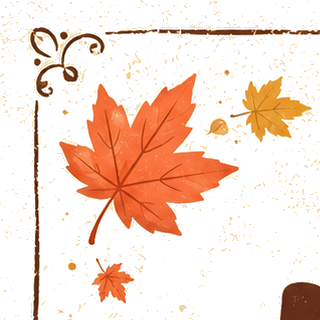
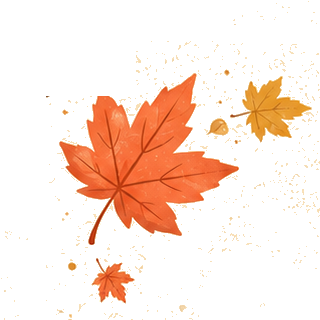
캐릭터 프로필 카드 이미지 디자인 추가 및 책 안의 화면 배경화면과 유사하게 디자인작업

diff --git a/frontend/src/css/book-flip-stage.css b/frontend/src/css/book-flip-stage.css
@@ -15,6 +15,11 @@
   background-repeat: no-repeat;
 }
 
+/* 다크모드일 때는 밤 버전 배경으로 교체 */
+[data-theme='dark'] .home {
+  background-image: url('/background-dark.png');
+}
+
 /* HTMLFlipBook(size="stretch")이 늘어날 기준 너비를 잴 수 있도록,
    책을 감싸는 요소가 항상 실제 너비(100%)를 갖고 있어야 한다.
    이게 없으면 책이 최소 크기로 쪼그라드는 문제가 있었다. */
@@ -32,20 +37,37 @@
 
 /* 페이지 한 장. StPageFlip이 실제 종이처럼 휘어지는 애니메이션과
    그림자를 자체적으로 그려주므로, 여기서는 배경/테두리 등 "종이처럼 보이는"
-   스타일만 신경 쓰면 된다. */
+   스타일만 신경 쓰면 된다.
+   바탕화면 이미지를 그대로 재사용하는 대신, 책 페이지만의 느낌을 CSS로 새로
+   만든다 - ① 책등(가운데 접히는 쪽) 방향으로 은은하게 어두워지는 그림자,
+   ② 페이지 네 귀퉁이가 살짝 어두워지는 비네트(조명 아래 놓인 종이 느낌),
+   ③ 아주 미세한 종이 섬유 결(작은 점무늬를 촘촘히 반복). 전부 이미지 없이
+   그라디언트만으로 표현해서, 바탕화면과는 다른 "책 자체의 질감"이 된다. */
 .flip-page {
   position: relative;
   width: 100%;
   height: 100%;
-  background: var(--color-page);
+  background-color: var(--color-page);
+  background-image:
+    /* 종이 섬유 결 - 아주 옅은 점무늬를 촘촘히 반복 */
+    radial-gradient(circle, rgba(78, 52, 46, 0.05) 0.6px, transparent 0.6px),
+    /* 네 귀퉁이 비네트 */
+    radial-gradient(ellipse at center, transparent 55%, rgba(78, 52, 46, 0.07) 100%);
+  background-size: 5px 5px, 100% 100%;
   border: 3px solid var(--color-line);
   border-radius: 8px;
   box-shadow: var(--shadow-book);
   overflow: hidden;
 }
 
+[data-theme='dark'] .flip-page {
+  background-image:
+    radial-gradient(circle, rgba(245, 236, 223, 0.05) 0.6px, transparent 0.6px),
+    radial-gradient(ellipse at center, transparent 55%, rgba(0, 0, 0, 0.25) 100%);
+}
+
 /* 콘텐츠 페이지 앞에 끼워 넣는 빈 페이지 - 같은 종이 질감을 유지하되
    내용은 아무것도 없어서 "왼쪽은 빈 페이지"처럼 보인다. */
 .flip-page--blank {
-  background: var(--color-page);
+  background-color: var(--color-page);
 }

diff --git a/frontend/src/css/home-archive.css b/frontend/src/css/home-archive.css
@@ -206,10 +206,10 @@
    방어구류)로 나누고, 캐릭터 이미지가 가운데 2칸x4행을 차지한다. */
 .home__equipment-grid {
   display: grid;
-  /* 이제 왼쪽 페이지 전체를 혼자 쓰기 때문에(예전엔 오른쪽 통계랑 나눠 썼음)
-     칸 크기를 키웠다 - 캐릭터 이미지 영역도 같이 커진다. */
-  grid-template-columns: repeat(6, 62px);
-  grid-template-rows: repeat(6, 62px);
+  /* 장비 칸은 원래 크기(46px)로 되돌리고, 캐릭터 이미지 영역만 아래에서
+     따로 확대한다 - 칸 크기를 키우면 장비 아이콘까지 같이 커져버려서 분리함. */
+  grid-template-columns: repeat(6, 46px);
+  grid-template-rows: repeat(6, 46px);
   grid-template-areas:
     'ring1  forehead char     char      cap      cape'
     'ring2  eyeacc   char     char      clothes  gloves'
@@ -217,9 +217,12 @@
     'ring4  pendant1 char     char      shoulder medal'
     'belt   pendant2 weapon   subweapon emblem   heart'
     'pocket .        .        .         .        badge';
-  gap: 0.45rem;
+  gap: 0.35rem;
   justify-content: center;
   margin: 0 auto;
+  /* 캐릭터 영역을 transform으로 확대하면 원래 칸 경계를 넘어서기 때문에,
+     그리드 자체가 그 넘친 부분을 잘라내지 않도록 허용한다. */
+  overflow: visible;
 }
 
 .home__equipment-grid-character {
@@ -233,10 +236,15 @@
   overflow: hidden;
 }
 
+/* 넥슨이 내려주는 캐릭터 이미지는 실제 캐릭터 주변에 투명 여백이 많아서,
+   칸 크기를 그대로 두고 이미지만 확대해서 여백을 잘라내고 캐릭터가 칸을
+   꽉 채우도록 한다 (캐릭터 카드에서 쓰던 것과 같은 방식). 원본이 300x300으로
+   충분히 크기 때문에 이렇게 확대해도 화질 손실은 없다. */
 .home__equipment-grid-character img {
-  max-width: 100%;
-  max-height: 100%;
+  width: 100%;
+  height: 100%;
   object-fit: contain;
+  transform: scale(2.2);
 }
 
 .home__equipment-cell {

diff --git a/frontend/src/hooks/useBookFlip.js b/frontend/src/hooks/useBookFlip.js
@@ -4,6 +4,7 @@ export const PAGE_ORDER = [
   'start',
   'apikey',
   'select',
+  'select-detail',
   'card',
   'archive',
   'scheduler-daily',
@@ -76,14 +77,19 @@ export function useBookFlip(initialPage) {
     // 한 장씩 순서대로 여러 번 호출했더니 오히려 너무 부산스럽고 부담스러웠다.
     pageFlip.flip(targetFlipIndex)
 
-    // flip()이 멀리 떨어진 페이지에서는 라이브러리 특성상 안 움직이는 경우가
-    // 있어서, 애니메이션이 끝났을 시점에 실제로 도착했는지 확인하고
-    // 어긋나 있으면 그때만 즉시 이동으로 보정한다.
+    // flip()이 라이브러리 특성상 안 움직이는 경우가 있어서, 애니메이션이 끝났을
+    // 시점에 실제로 도착했는지 확인하고 어긋나 있을 때만 보정한다.
+    // (한때 "확인 없이 무조건 보정"으로 바꿔봤는데, 그러면 이미 잘 도착한
+    // 경우에도 매번 라이브러리가 DOM을 한 번 더 건드리게 되고, 마침 그 타이밍에
+    // React가 그 페이지 콘텐츠를 렌더링 중이면 "insertBefore/removeChild - not a
+    // child of this node" 충돌이 났다. getCurrentPageIndex()는 라이브러리
+    // 공식 문서에 있는 정식 메서드라 확인 자체는 안전하니, 진짜 필요할 때만
+    // 최소한으로 보정하는 쪽이 훨씬 안전하다.)
     setTimeout(() => {
       if (typeof pageFlip.getCurrentPageIndex === 'function' && pageFlip.getCurrentPageIndex() !== targetFlipIndex) {
         pageFlip.turnToPage(targetFlipIndex)
       }
-    }, 750)
+    }, 900)
   }
 
   const jumpTo = (next) => {

diff --git a/frontend/src/pages/home/StartPage.jsx b/frontend/src/pages/home/StartPage.jsx
@@ -1,15 +1,19 @@
+import { useTheme } from '../../ThemeContext.jsx'
 import '../../css/home-shared.css'
 
 /**
  * 표지 전체를 이미지(ChatGPT로 만든 "MY MAPLE STORY" 일러스트, public/cover.png)로
  * 깔고, 그 위에 "시작하기" 버튼만 얹는다. 예전엔 텍스트(MY/MAPLE STORY/캡션)를
  * 코드로 직접 그렸는데, 이제 그 텍스트가 이미지 안에 이미 그려져 있어서
- * 코드에서는 다시 안 그린다.
+ * 코드에서는 다시 안 그린다. 다크모드일 때는 밤 버전 표지(cover-dark.png)로 바뀐다.
  */
 export default function StartPage({ onStart, disabled }) {
+  const { theme } = useTheme()
+  const coverImage = theme === 'dark' ? '/cover-dark.png' : '/cover.png'
+
   return (
     <div className="home__cover">
-      <img src="/cover.png" alt="MY MAPLE STORY" className="home__cover-image" />
+      <img src={coverImage} alt="MY MAPLE STORY" className="home__cover-image" />
       <button onClick={onStart} className="home__apikey-submit home__cover-start" disabled={disabled}>
         시작하기
       </button>

diff --git a/frontend/src/css/home-select.css b/frontend/src/css/home-select.css
@@ -28,6 +28,9 @@
   gap: 0.6rem;
   justify-content: center;
   max-width: 520px;
+  max-height: 300px;
+  overflow-y: auto;
+  padding: 0.2rem;
 }
 
 .home__select-chip {
